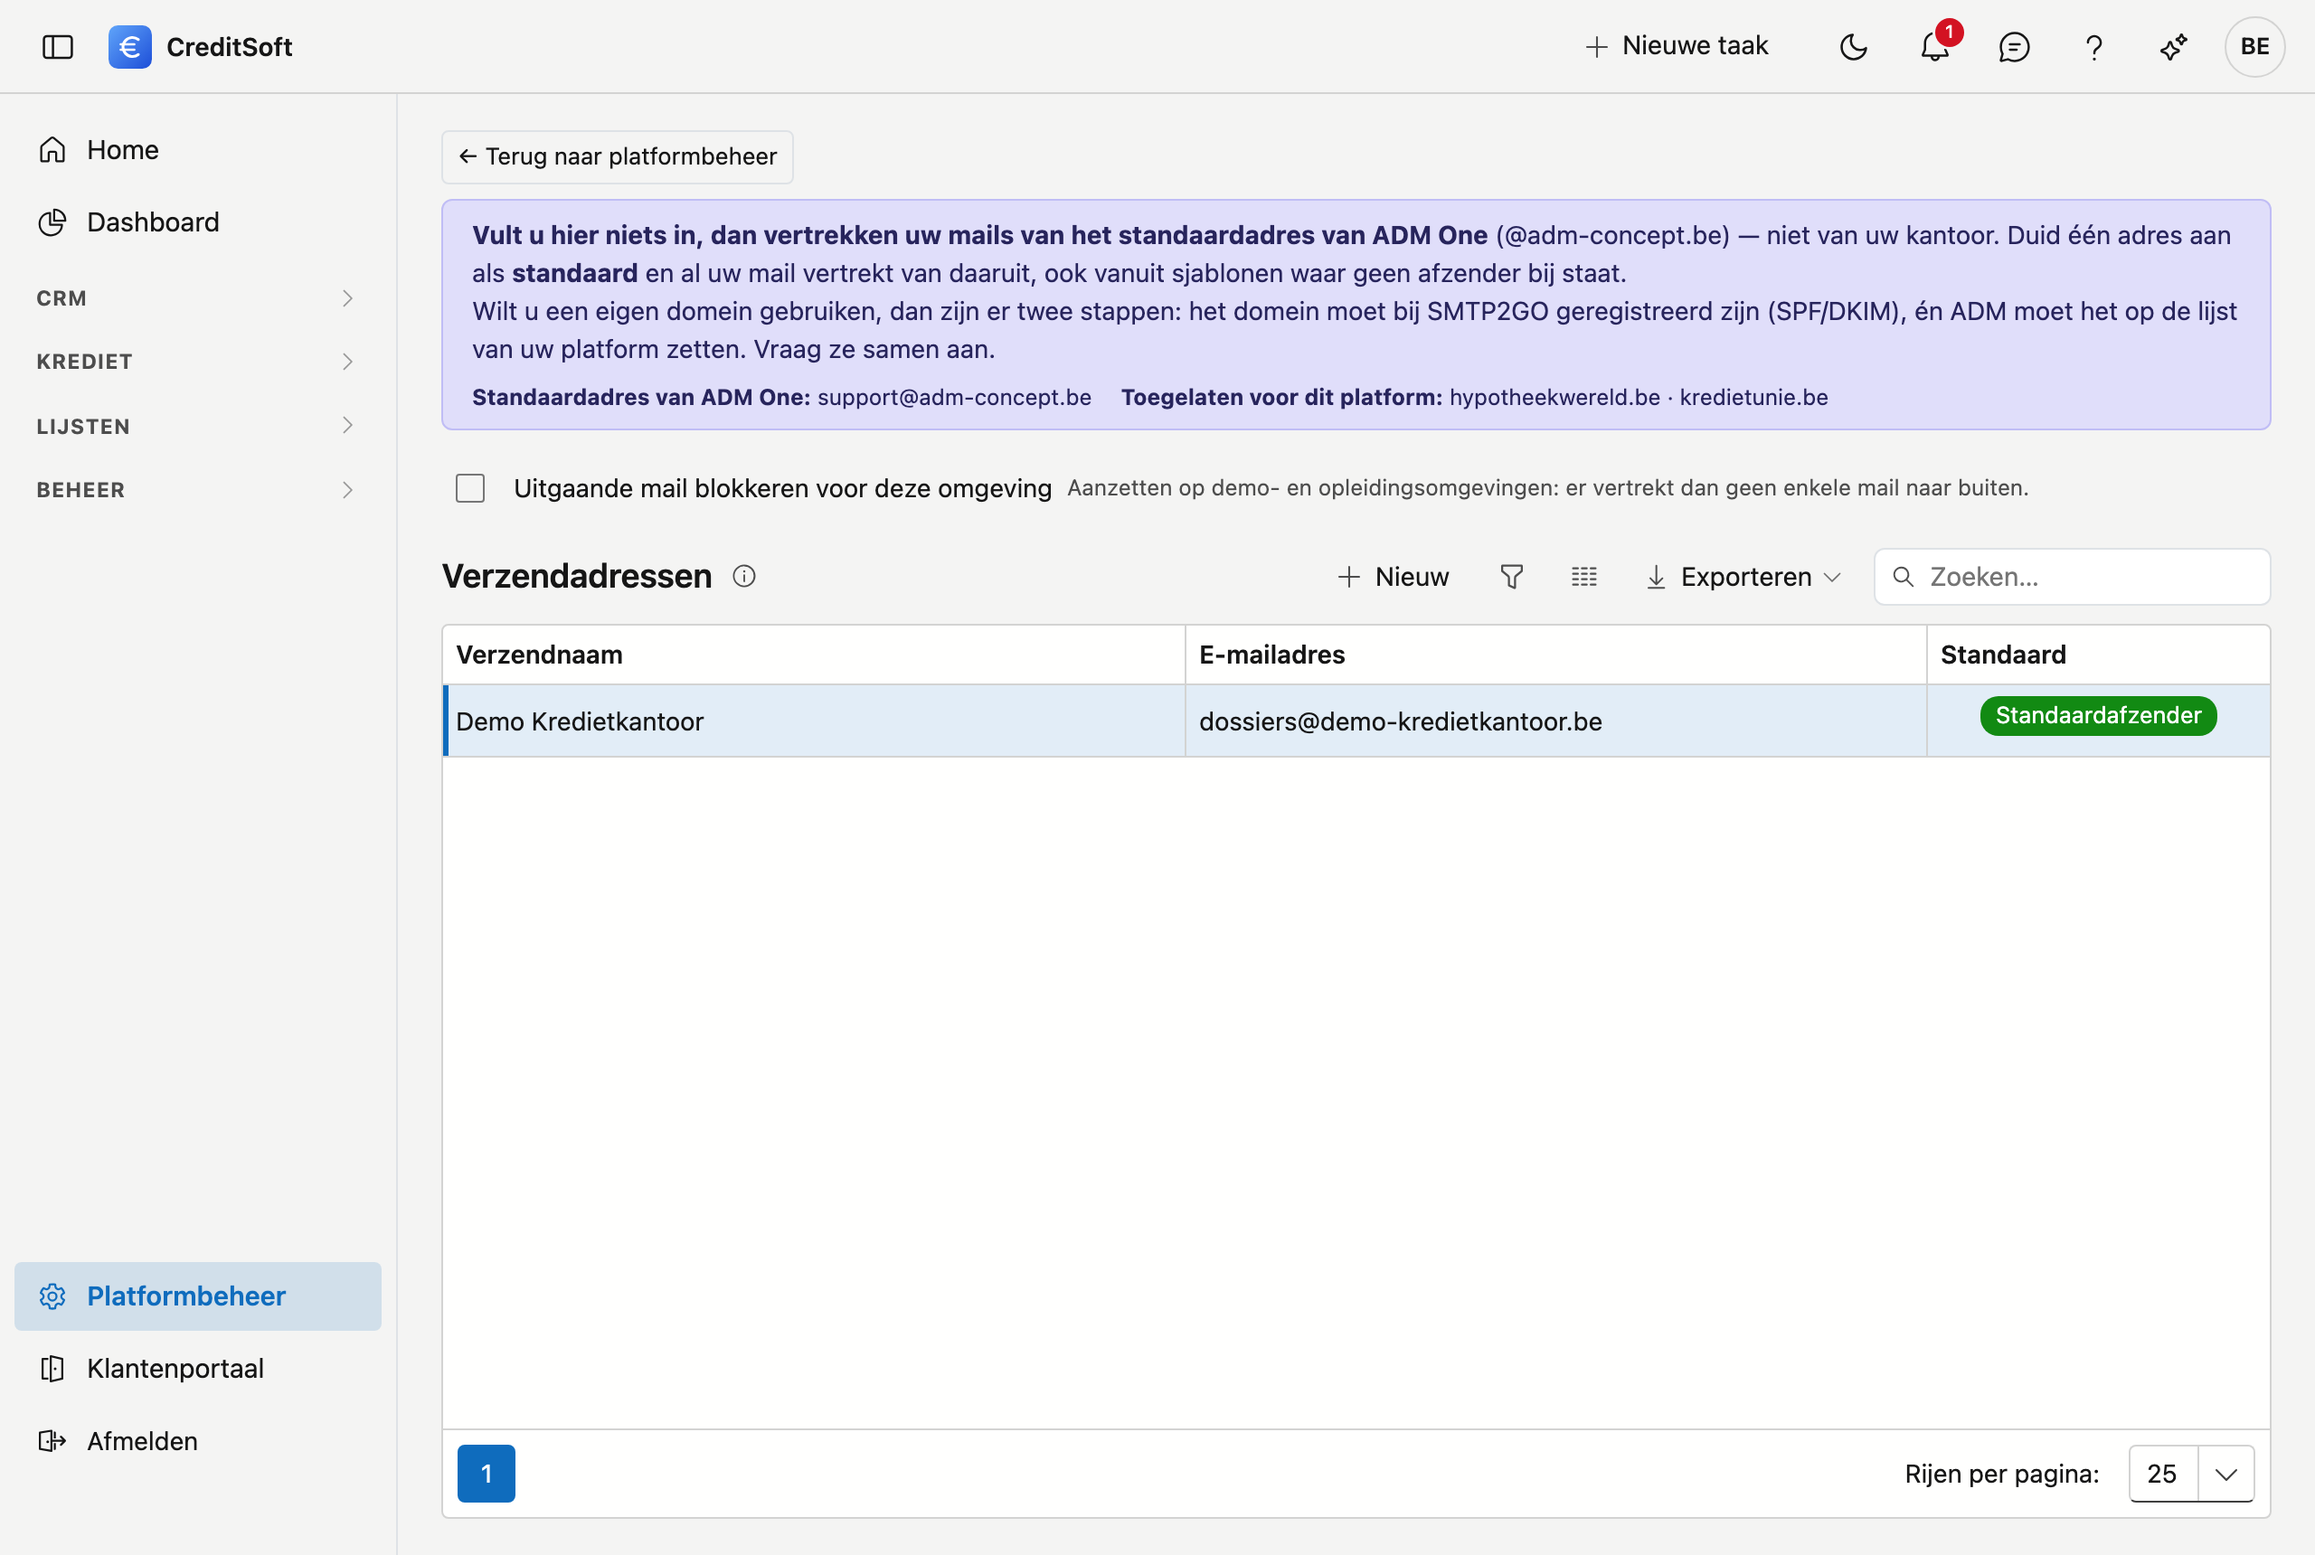
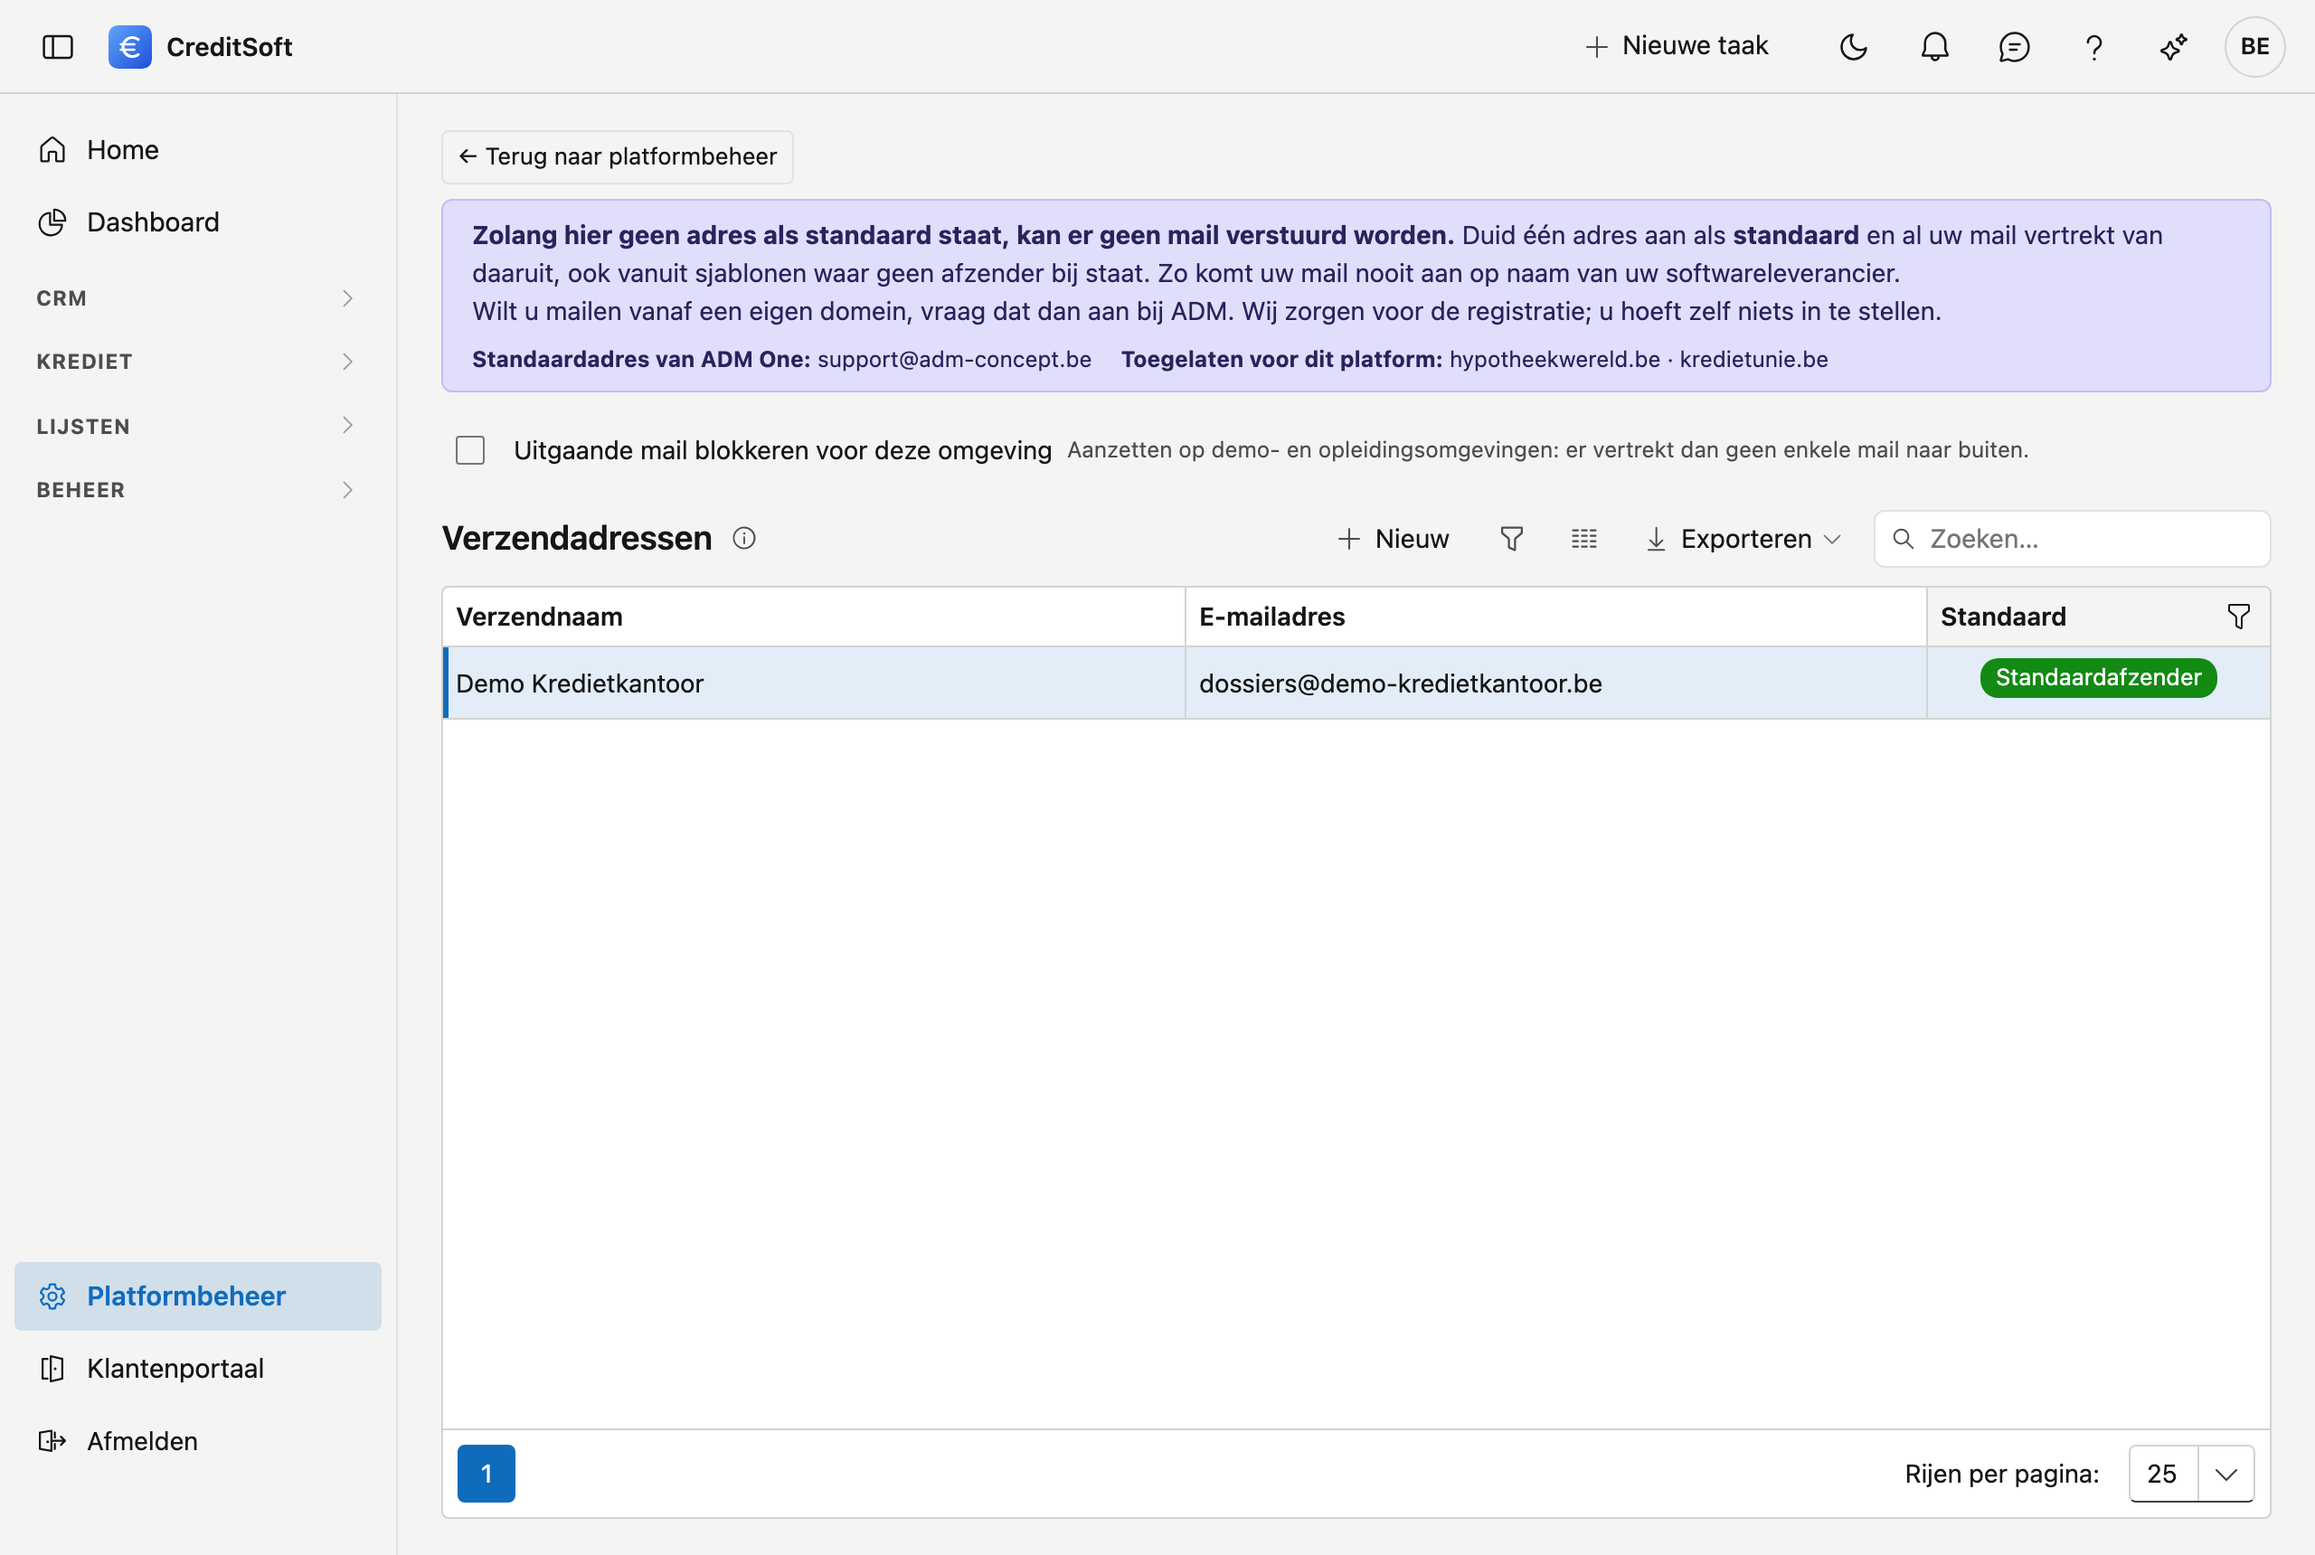
Verzendadressen: SMTP2GO eruit, registratie loopt via ADM
Dominique: SMTP2GO is onze leverancier, niet die van de klant. Wij doen beide
registraties — de klant vraagt het gewoon aan bij ons. De twee stappen zijn dus interne
keuken en horen niet in een handleiding voor kredietmakelaars.

Vervangen door één zin: vraag het aan bij uw contactpersoon bij ADM, wij zorgen voor de
registratie, en zodra het rond is verschijnt het domein op het scherm bij de toegelaten
domeinen.

Beeld vernieuwd: de tekst bovenaan het scherm is mee rechtgezet (die beweerde nog dat mail
zonder verzendadres van het ADM-adres vertrekt — dat gebeurt niet meer, er wordt dan
helemaal niets verstuurd).

Changed region(s): [[0.1875, 0.1233, 1.0, 0.493], [0.8125, 0.0, 0.8438, 0.0308]]

diff --git a/docs/administration/sender-addresses.fr.md b/docs/administration/sender-addresses.fr.md
@@ -42,12 +42,7 @@ Pendant que vous saisissez une adresse, CreditSoft vérifie le domaine par rappo
 - **Vert** — le domaine est enregistré. Les e-mails de cette adresse partiront au nom de votre bureau.
 - **Orange** — le domaine n'est pas encore enregistré. Vous pouvez enregistrer et utiliser l'adresse, mais la distribution pourrait s'interrompre plus tard.
 
-Pour faire enregistrer votre propre domaine, **deux étapes** sont nécessaires, et vous avez besoin des deux :
-
-1. Le domaine doit être enregistré chez **SMTP2GO** (SPF/DKIM).
-2. **ADM** ajoute le domaine à la liste de votre plateforme.
-
-Demandez les deux ensemble à votre personne de contact chez ADM.
+Pour envoyer depuis votre propre domaine, **adressez-en la demande à votre personne de contact chez ADM**. Nous nous chargeons de l'enregistrement ; vous n'avez rien à configurer vous-même. Dès que le domaine est enregistré, il apparaît ici parmi les domaines autorisés et le contrôle passe au vert.
 
 ## Bloquer les e-mails sortants
 

diff --git a/docs/administration/sender-addresses.md b/docs/administration/sender-addresses.md
@@ -42,12 +42,7 @@ Terwijl u een adres intikt, controleert CreditSoft het domein tegen die lijst:
 - **Groen** — het domein is geregistreerd. Mail van dit adres vertrekt op naam van uw kantoor.
 - **Oranje** — het domein is nog niet geregistreerd. U kan het adres wél bewaren en gebruiken, maar de aflevering kan later stilvallen.
 
-Om een eigen domein te laten registreren zijn er **twee stappen**, en u hebt ze allebei nodig:
-
-1. Het domein moet bij **SMTP2GO** geregistreerd zijn (SPF/DKIM).
-2. **ADM** zet het domein op de lijst van uw platform.
-
-Vraag die twee samen aan bij uw contactpersoon bij ADM.
+Wilt u mailen vanaf een eigen domein, **vraag dat dan aan bij uw contactpersoon bij ADM**. Wij zorgen voor de registratie; u hoeft zelf niets in te stellen. Zodra het domein geregistreerd is, verschijnt het hier bij de toegelaten domeinen en kleurt de controle groen.
 
 ## Uitgaande mail blokkeren
 
